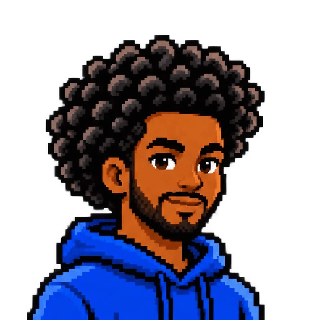
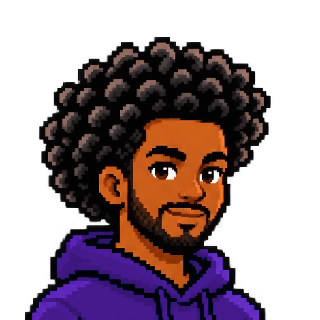
Soigner le mobile et renouveler l'icône installée
Sur téléphone, le héros devient une barre de titre dès qu'un planning existe :
le bandeau des jours et la première séance remontent au-dessus de la ligne de
flottaison. Le bandeau gagne un dégradé sur ses bords, la vue semaine des
journées compactes et plus d'impression sur mobile, les cartes de statistiques
tiennent en deux colonnes lisibles, les actions de page et les pieds de dialogue
passent en pleine largeur, et les infobulles des graphiques repassent en
français.

Les icônes portent désormais un numéro de version : c'est le changement d'URL
du manifeste qui fait remplacer l'icône d'une app déjà installée. Le postbuild
échoue si un nom d'icône ne correspond plus aux fichiers générés.

diff --git a/src/app/Hero.tsx b/src/app/Hero.tsx
@@ -15,8 +15,12 @@ const rise: Variants = {
   }),
 }
 
-/** The reference hero. `compact` (week and month views) drops the icon and shrinks the title so the grid fits. */
-export function Hero({ onStart, compact = false }: { onStart: () => void; compact?: boolean }) {
+/**
+ * The reference hero. `compact` (week and month views) drops the icon and
+ * shrinks the title so the grid fits. `slim` keeps the desktop hero but turns
+ * it into a title bar on phones, so the day strip stays above the fold.
+ */
+export function Hero({ onStart, compact = false, slim = false }: { onStart: () => void; compact?: boolean; slim?: boolean }) {
   return (
     <section
       className={cx(
@@ -24,6 +28,7 @@ export function Hero({ onStart, compact = false }: { onStart: () => void; compac
         compact
           ? 'pt-[clamp(8px,2vh,20px)] pb-6'
           : 'pt-[clamp(20px,8.5vh,77px)] pb-[clamp(18px,4.1vh,37px)] max-sm:pt-5 max-sm:pb-4',
+        slim && !compact && 'max-sm:pt-3 max-sm:pb-2',
       )}
     >
       {!compact && (
@@ -32,7 +37,10 @@ export function Hero({ onStart, compact = false }: { onStart: () => void; compac
           initial="hidden"
           animate="show"
           custom={0}
-          className="border-[3px] border-[#fdf8ec] bg-[#04322f] shadow-[0_0_0_2px_#10201f,6px_6px_0_rgb(2_22_20/0.5)]"
+          className={cx(
+            'border-[3px] border-[#fdf8ec] bg-[#04322f] shadow-[0_0_0_2px_#10201f,6px_6px_0_rgb(2_22_20/0.5)]',
+            slim && 'max-sm:hidden',
+          )}
         >
           <Mascot variant="bust" />
         </motion.div>
@@ -47,6 +55,7 @@ export function Hero({ onStart, compact = false }: { onStart: () => void; compac
           compact
             ? 'text-[clamp(16px,2vw,24px)] leading-[1.6]'
             : 'mt-[clamp(14px,3.4vh,32px)] text-[clamp(19px,3.1vw,40px)] leading-[1.5] max-sm:mt-3.5 max-sm:text-[18px]',
+          slim && 'max-sm:mt-0 max-sm:text-[17px]',
         )}
       >
         {copy.headline}
@@ -58,13 +67,18 @@ export function Hero({ onStart, compact = false }: { onStart: () => void; compac
         custom={2}
         className={cx(
           'mt-[14px] max-w-[38ch] text-[clamp(17px,1.4vw,19px)] leading-[1.45] text-white/85 max-sm:mt-2.5 max-sm:text-[15px] sm:max-w-none',
-          compact && 'max-sm:hidden',
+          (compact || slim) && 'max-sm:hidden',
         )}
       >
         {copy.subcopy}
       </motion.p>
       <motion.div variants={rise} initial="hidden" animate="show" custom={3} className={compact ? 'mt-4 max-sm:mt-3' : 'mt-[22px] max-sm:mt-4'}>
-        <Button variant="pill" size={compact ? 'sm' : 'lg'} onClick={onStart} className={compact ? 'px-5' : undefined}>
+        <Button
+          variant="pill"
+          size={compact ? 'sm' : 'lg'}
+          onClick={onStart}
+          className={compact ? 'px-5' : slim ? 'max-sm:h-10 max-sm:px-6 max-sm:text-[13.5px]' : undefined}
+        >
           {copy.cta}
         </Button>
       </motion.div>

diff --git a/vite.config.ts b/vite.config.ts
@@ -23,7 +23,6 @@ export default defineConfig(({ mode }) => {
       // background, so a deploy reaches installed copies without a prompt.
       VitePWA({
         registerType: 'autoUpdate',
-        includeAssets: ['favicon.png', 'apple-touch-icon.png'],
         manifest: {
           name: 'Study Quest — planner de révisions',
           short_name: 'Study Quest',
@@ -38,14 +37,17 @@ export default defineConfig(({ mode }) => {
           theme_color: '#04332f',
           background_color: '#04332f',
           categories: ['education', 'productivity'],
+          // Versioned names: an installed app only takes a new home-screen icon
+          // when the manifest's icon URLs change. `ICON_VERSION` in
+          // scripts/generate-icons.mjs names the files; keep the two in sync.
           icons: [
-            { src: 'pwa-192.png', sizes: '192x192', type: 'image/png', purpose: 'any' },
-            { src: 'pwa-512.png', sizes: '512x512', type: 'image/png', purpose: 'any' },
-            { src: 'pwa-maskable-512.png', sizes: '512x512', type: 'image/png', purpose: 'maskable' },
+            { src: 'pwa-192-v2.png', sizes: '192x192', type: 'image/png', purpose: 'any' },
+            { src: 'pwa-512-v2.png', sizes: '512x512', type: 'image/png', purpose: 'any' },
+            { src: 'pwa-maskable-512-v2.png', sizes: '512x512', type: 'image/png', purpose: 'maskable' },
           ],
         },
         workbox: {
-          globPatterns: ['**/*.{js,css,html,svg,png,ico,woff2}'],
+          globPatterns: ['**/*.{js,css,html,png,woff2}'],
           navigateFallback: `${base}index.html`,
           cleanupOutdatedCaches: true,
           // The pixel fonts come from Google; caching them keeps the look

diff --git a/src/components/StatTile.tsx b/src/components/StatTile.tsx
@@ -24,12 +24,12 @@ export function StatTile({
       transition={{ type: 'spring', stiffness: 420, damping: 34, delay }}
       className="on-light flex min-w-0 flex-col rounded-column bg-card p-4 text-ink shadow-card"
     >
-      <div className="flex items-center justify-between gap-2 text-[13px] font-medium text-ink-soft">
+      <div className="flex items-center justify-between gap-2 text-[12.5px] font-medium text-ink-soft sm:text-[13px]">
         {label}
-        {icon && <span className="grid size-8 place-items-center rounded-chip bg-[#eef6f5] text-teal-700 [&_svg]:size-4">{icon}</span>}
+        {icon && <span className="grid size-7 place-items-center rounded-chip bg-[#eef6f5] text-teal-700 sm:size-8 [&_svg]:size-4">{icon}</span>}
       </div>
-      <div className="mt-1 text-[30px] leading-[1.15] font-bold tracking-[-0.03em] tabular-nums">{value}</div>
-      {caption && <div className="mt-0.5 text-[13px] leading-5 text-ink-soft">{caption}</div>}
+      <div className="mt-1 text-[27px] leading-[1.15] font-bold tracking-[-0.03em] tabular-nums sm:text-[30px]">{value}</div>
+      {caption && <div className="mt-0.5 text-[12.5px] leading-[1.4] text-ink-soft sm:text-[13px] sm:leading-5">{caption}</div>}
       {children && <div className="mt-3">{children}</div>}
     </motion.div>
   )

diff --git a/src/app/DayColumn.tsx b/src/app/DayColumn.tsx
@@ -57,7 +57,7 @@ export function DayColumn({
       transition={{ ...spring, delay: entrance.active ? 0.35 + columnDelay : 0 }}
       className={cx(
         'group/col relative flex shrink-0 flex-col rounded-column pt-[13px] transition-[background-color,box-shadow] duration-200',
-        fluid ? 'min-h-[128px] w-full min-w-0 px-[11px] sm:min-h-[220px]' : 'w-(--col-w) snap-start px-[15px]',
+        fluid ? 'min-h-0 w-full min-w-0 px-[11px] sm:min-h-[220px]' : 'w-(--col-w) snap-start px-[15px]',
         hot
           ? 'bg-column-hot shadow-[inset_0_0_0_2px_rgb(255_255_255/0.65),4px_4px_0_rgb(2_22_20/0.3)]'
           : over
@@ -97,7 +97,7 @@ export function DayColumn({
         </motion.button>
       </div>
 
-      <footer className="mt-3 border-t border-white/22 pt-[12px] pb-[13px] text-[15px] leading-[18px] text-white/90">
+      <footer className="mt-1.5 border-t border-white/22 pt-[10px] pb-[11px] text-[15px] leading-[18px] text-white/90 sm:mt-3 sm:pt-[12px] sm:pb-[13px]">
         <div className="flex flex-wrap items-center justify-between gap-x-2 gap-y-1.5">
           <motion.span key={total} initial={entrance.active ? false : { opacity: 0, y: 4 }} animate={{ opacity: 1, y: 0 }} className="inline-block tabular-nums">
             {formatTotal(total)}

diff --git a/src/components/PageHeader.tsx b/src/components/PageHeader.tsx
@@ -8,13 +8,15 @@ export function PageHeader({ title, intro, actions }: { title: string; intro?: s
       initial={{ opacity: 0, y: 14, filter: 'blur(4px)' }}
       animate={{ opacity: 1, y: 0, filter: 'blur(0px)' }}
       transition={{ type: 'spring', stiffness: 260, damping: 28 }}
-      className="flex flex-wrap items-end justify-between gap-4 pt-[clamp(20px,5vh,48px)] pb-6"
+      className="flex flex-wrap items-end justify-between gap-4 pt-[clamp(14px,3.2vh,48px)] pb-5 sm:pb-6"
     >
       <div className="min-w-0">
         <h1 className="font-display text-[clamp(19px,2.4vw,29px)] leading-[1.5]">{title}</h1>
         {intro && <p className="mt-2 max-w-[52ch] text-[16px] leading-[1.45] text-white/85">{intro}</p>}
       </div>
-      {actions && <div className="flex flex-wrap items-center gap-2">{actions}</div>}
+      {/* Phones: the page actions become a full-width row of thumb-sized
+          buttons instead of a ragged left-aligned stack. */}
+      {actions && <div className="flex flex-wrap items-center gap-2 max-sm:w-full max-sm:[&>*]:flex-1">{actions}</div>}
     </motion.div>
   )
 }

diff --git a/src/components/Charts.tsx b/src/components/Charts.tsx
@@ -59,7 +59,7 @@ export function BarChart({ data, format, label }: { data: BarDatum[]; format: (v
           </span>
           <span className="w-[62px] text-right text-[13px] text-ink-soft tabular-nums">{format(d.value)}</span>
           <Tip show={hover === d.id} className="-top-8 left-1/2 -translate-x-1/2">
-            {d.label} · {format(d.value)} · {Math.round((d.value / Math.max(1, total)) * 100)}% of total
+            {d.label} · {format(d.value)} · {Math.round((d.value / Math.max(1, total)) * 100)} % du total
             {d.detail ? ` · ${d.detail}` : ''}
           </Tip>
         </li>
@@ -100,7 +100,7 @@ export function DayBars({ data, limit, format, label }: { data: DayDatum[]; limi
               style={{ minHeight: d.value ? 3 : 0 }}
             />
             <Tip show={hover === d.date} className="bottom-[calc(100%+4px)] left-1/2 -translate-x-1/2">
-              {d.label} · {d.value ? format(d.value) : 'no study'}
+              {d.label} · {d.value ? format(d.value) : 'aucune révision'}
             </Tip>
           </div>
         ))}

diff --git a/src/app/Onboarding.tsx b/src/app/Onboarding.tsx
@@ -42,7 +42,7 @@ export function Onboarding({ onPlan, onAddToday, onSample }: { onPlan: () => voi
               </li>
             ))}
           </ol>
-          <div className="mt-7 flex flex-wrap items-center gap-2">
+          <div className="mt-7 flex flex-col items-stretch gap-2 sm:flex-row sm:flex-wrap sm:items-center">
             <Button variant="pill" size="md" onClick={onPlan} className="px-5">
               <Sparkles />
               Planifie ton premier contrôle
@@ -52,7 +52,7 @@ export function Onboarding({ onPlan, onAddToday, onSample }: { onPlan: () => voi
               Ajouter une séance aujourd’hui
             </Button>
           </div>
-          <div className="mt-4 flex flex-wrap gap-x-5 gap-y-1">
+          <div className="mt-2 flex flex-wrap justify-center gap-x-5 gap-y-1 sm:mt-4 sm:justify-start">
             <Button variant="linkDark" size="sm" onClick={() => navigate('/subjects')}>
               Commence par tes matières
             </Button>

diff --git a/index.html b/index.html
@@ -9,8 +9,9 @@
     <link rel="preconnect" href="https://fonts.googleapis.com" />
     <link rel="preconnect" href="https://fonts.gstatic.com" crossorigin />
     <link href="https://fonts.googleapis.com/css2?family=Pixelify+Sans:wght@400;500;600;700&family=Press+Start+2P&display=swap" rel="stylesheet" />
-    <link rel="icon" type="image/png" href="/favicon.png" />
-    <link rel="apple-touch-icon" href="/apple-touch-icon.png" />
+    <!-- Noms versionnés : voir ICON_VERSION dans scripts/generate-icons.mjs. -->
+    <link rel="icon" type="image/png" href="%BASE_URL%favicon-v2.png" />
+    <link rel="apple-touch-icon" href="%BASE_URL%apple-touch-icon-v2.png" />
     <meta name="apple-mobile-web-app-capable" content="yes" />
     <meta name="apple-mobile-web-app-status-bar-style" content="black-translucent" />
     <meta name="apple-mobile-web-app-title" content="Study Quest" />

diff --git a/src/components/Dialog.tsx b/src/components/Dialog.tsx
@@ -72,8 +72,10 @@ export function Dialog({
               </IconButton>
             </div>
             <div className="min-h-0 flex-1 overflow-y-auto overscroll-contain px-5 pb-2 sm:px-6">{children}</div>
+            {/* Phones stack the actions full width, so each one is a real thumb
+                target instead of a ragged wrapping row. */}
             {footer && (
-              <div className="flex flex-wrap items-center gap-2 border-t border-line px-5 py-4 pb-[calc(16px_+_env(safe-area-inset-bottom))] sm:px-6 sm:pb-4">
+              <div className="flex flex-wrap items-center gap-2 border-t border-line px-5 py-4 pb-[calc(16px_+_env(safe-area-inset-bottom))] max-sm:flex-col max-sm:items-stretch max-sm:[&>*]:w-full sm:px-6 sm:pb-4">
                 {footer}
               </div>
             )}

diff --git a/src/app/WeekView.tsx b/src/app/WeekView.tsx
@@ -49,13 +49,13 @@ export function WeekView({
         onToday={() => go(today)}
         isCurrent={start === weekStart(today)}
         extra={
-          <Button variant="glass" size="sm" onClick={() => navigate(`/print?d=${start}`)}>
+          <Button variant="glass" size="sm" onClick={() => navigate(`/print?d=${start}`)} className="max-sm:hidden">
             <Printer />
             Imprimer la semaine
           </Button>
         }
       />
-      <div className="grid flex-1 grid-cols-1 gap-(--col-gap) px-(--board-pad) sm:grid-cols-2 lg:grid-cols-4 xl:grid-cols-7">
+      <div className="grid flex-1 grid-cols-1 gap-2 px-(--board-pad) sm:grid-cols-2 sm:gap-(--col-gap) lg:grid-cols-4 xl:grid-cols-7">
         {days.map((date, i) => (
           <DayColumn
             key={date}

diff --git a/src/app/QuestsPage.tsx b/src/app/QuestsPage.tsx
@@ -88,8 +88,8 @@ export function QuestsPage({
             <p className="text-[12px] font-semibold tracking-[0.14em] text-white/75 uppercase">{level.rank}</p>
             <p className="mt-0.5 text-[21px] font-bold tracking-[-0.02em] tabular-nums">
               {level.xp.toLocaleString('fr-FR')} XP
-              <span className="ml-2 text-[13px] font-medium text-white/75">
-                {level.into} / {level.span} avant le niveau {level.level + 1}
+              <span className="mt-0.5 block text-[12.5px] font-medium text-white/75 sm:mt-0 sm:ml-2 sm:inline sm:text-[13px]">
+                {level.into} / {level.span} avant le niveau&nbsp;{level.level + 1}
               </span>
             </p>
             <div

diff --git a/src/app/App.tsx b/src/app/App.tsx
@@ -275,7 +275,7 @@ export function App() {
     const empty = items.length === 0
     page = (
       <main id="main" className="relative z-10 flex flex-1 flex-col">
-        <HeroSlot onStart={openPlan} compact={view !== 'days' && items.length > 0} />
+        <HeroSlot onStart={openPlan} compact={view !== 'days' && items.length > 0} slim={items.length > 0} />
         <div className="no-print -mt-2 mb-4 flex justify-center md:hidden">
           <ViewSwitcher view={view} name="Vue du planning (mobile)" anchor={anchor} />
         </div>
